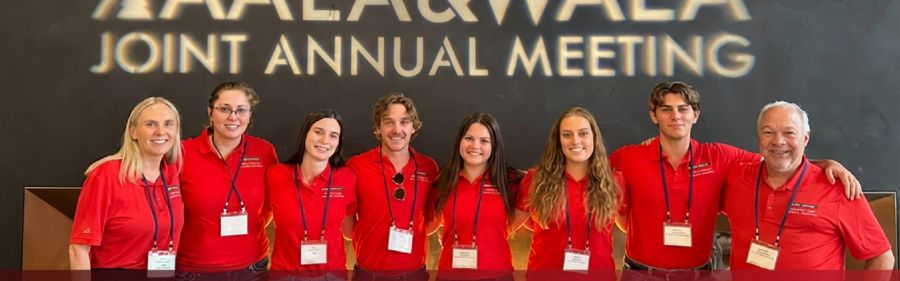
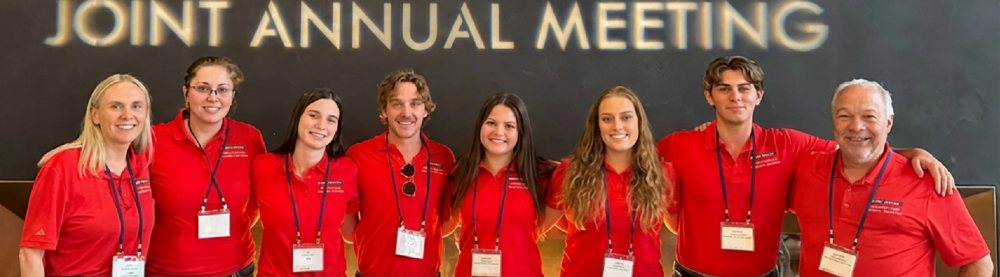
Explore ABM: show the full Spreadsheet Team photo
Claude-Session: https://claude.ai/code/session_01BjpAFctizGg6vUXU3qzw5X

diff --git a/explore/index.html b/explore/index.html
@@ -244,7 +244,7 @@ details[open]{background:#fafafa;padding:4px 14px 10px;margin:0 -14px}
   <h2 id="outside">Outside the classroom</h2>
   <div class="hie"><b>What is a High-Impact Experience?</b><p>NC State&rsquo;s Provost designates High-Impact Experiences: structured, hands-on programs where students work on real problems, get feedback from mentors and reflect on what they learned. ABM offers seven of them, marked below.</p></div>
   <div class="xp">
-    <article><img src="img/aaea.jpg" alt="ABM students at the AAEA annual meeting" loading="lazy"><div class="tx"><span class="tag">Compete</span> <span class="tag hiet">High-Impact Experience</span> <h3>Spreadsheet Analytics Team</h3><p>Build an Excel model for an ag business case you&rsquo;ve never seen, against teams from across the country. First place at the 2026 AAEA national competition.</p></div></article>
+    <article><img src="img/aaea.jpg" style="aspect-ratio:auto" alt="ABM students at the AAEA annual meeting" loading="lazy"><div class="tx"><span class="tag">Compete</span> <span class="tag hiet">High-Impact Experience</span> <h3>Spreadsheet Analytics Team</h3><p>Build an Excel model for an ag business case you&rsquo;ve never seen, against teams from across the country. First place at the 2026 AAEA national competition.</p></div></article>
     <article><img src="img/quiz-bowl.jpg" alt="Quiz Bowl travel team in Denver" loading="lazy"><div class="tx"><span class="tag">Compete</span><h3>Quiz Bowl Team</h3><p>A buzzer-style tournament on ag economics, policy and markets at the national AAEA meeting. Open to students in any year.</p></div></article>
     <article><img src="img/sales-team.jpg" alt="Sales Team at Bayer Crop Science headquarters in St. Louis" loading="lazy"><div class="tx"><span class="tag">Compete</span> <h3>Sales Team</h3><p>Role-play a real ag sales call in front of industry judges. Team trips to Bayer, John Deere and AGCO. Places every year.</p></div></article>
     <article><img src="img/nama.jpg" alt="NAMA marketing team at the national meeting" loading="lazy"><div class="tx"><span class="tag">Compete</span><h3>NAMA Marketing Team</h3><p>Write a marketing plan for a real ag client and pitch it to industry judges at the National Agri-Marketing Association meeting.</p></div></article>
